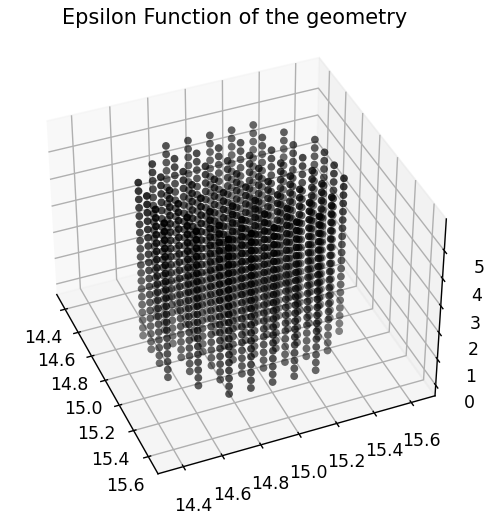
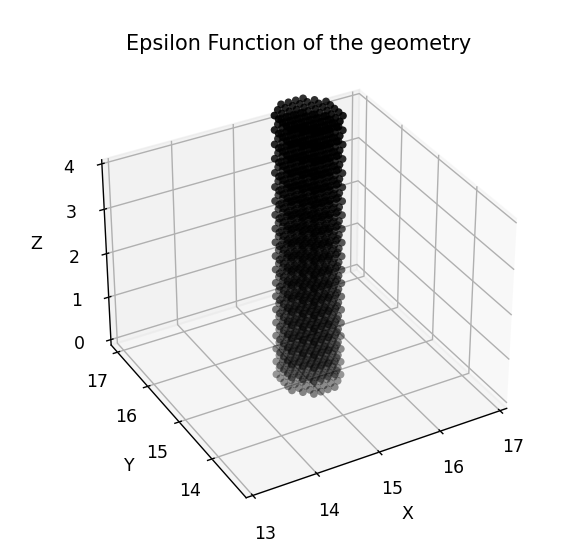
'added_requirement.txt'

diff --git a/main.py b/main.py
@@ -67,8 +67,12 @@ if (mesh.is_watertight) :
     ax = fig.add_subplot(projection = '3d')
     ax.scatter(epsilonPoints[:,0], epsilonPoints[:,1], epsilonPoints[:,2], lw = 0., c = 'k')
     plt.title("Epsilon Function of the geometry")
-    plt.xlim([14.3,15.7])
-    plt.ylim([14.3,15.7])
+    plt.xlim([0,lx])
+    plt.ylim([0,ly])
+    ax.set_xlabel('X')
+    ax.set_ylabel('Y')
+    ax.set_zlabel('Z')
+    ax.set_zlim([0,lx])
     plt.show()
     
     '''print("epsilon function generated. Saving into epsilon.txt")
